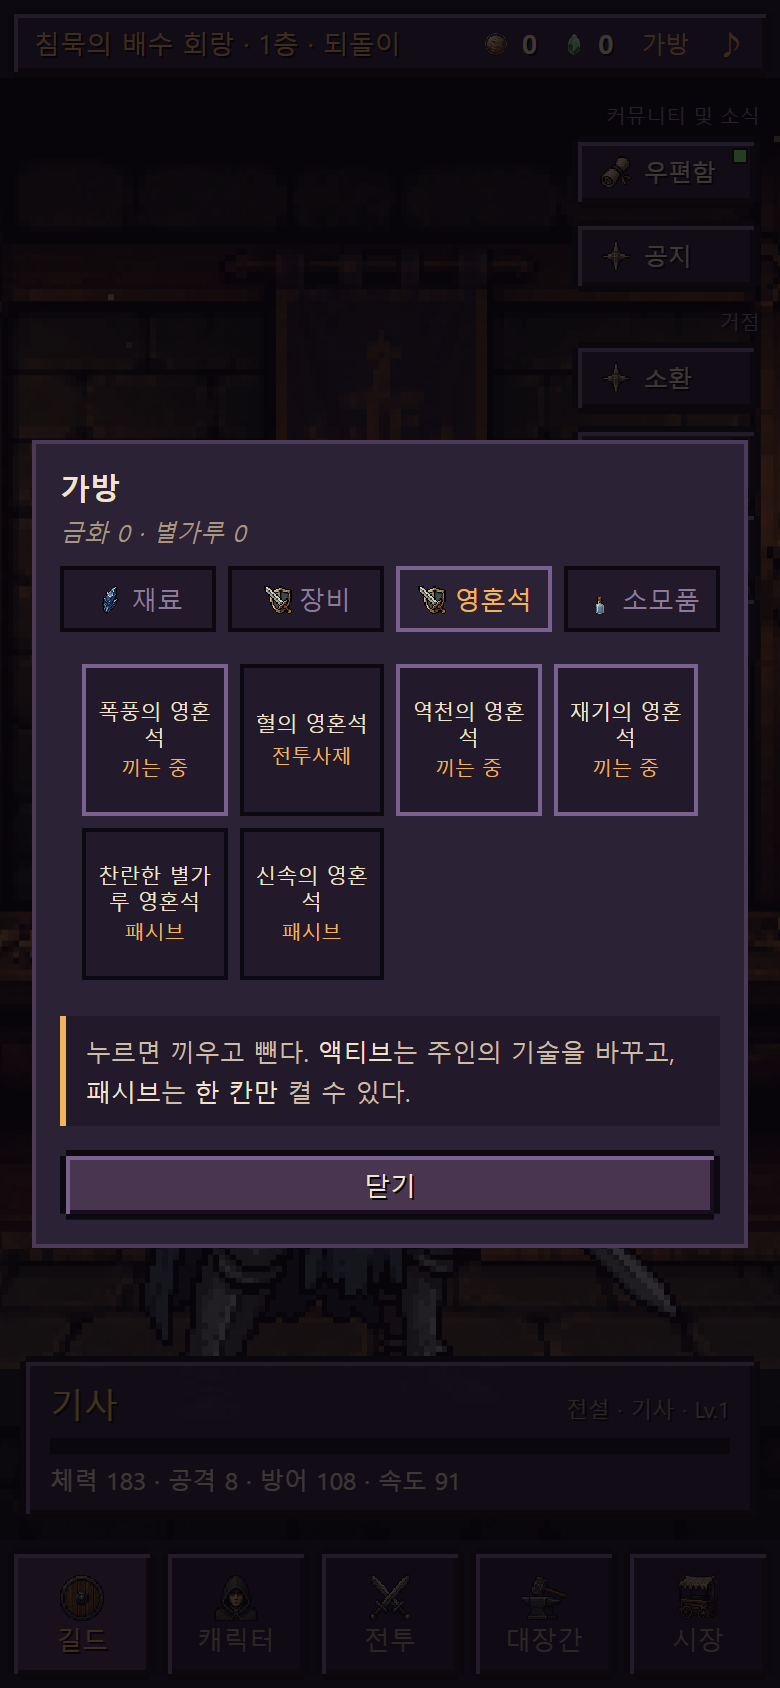
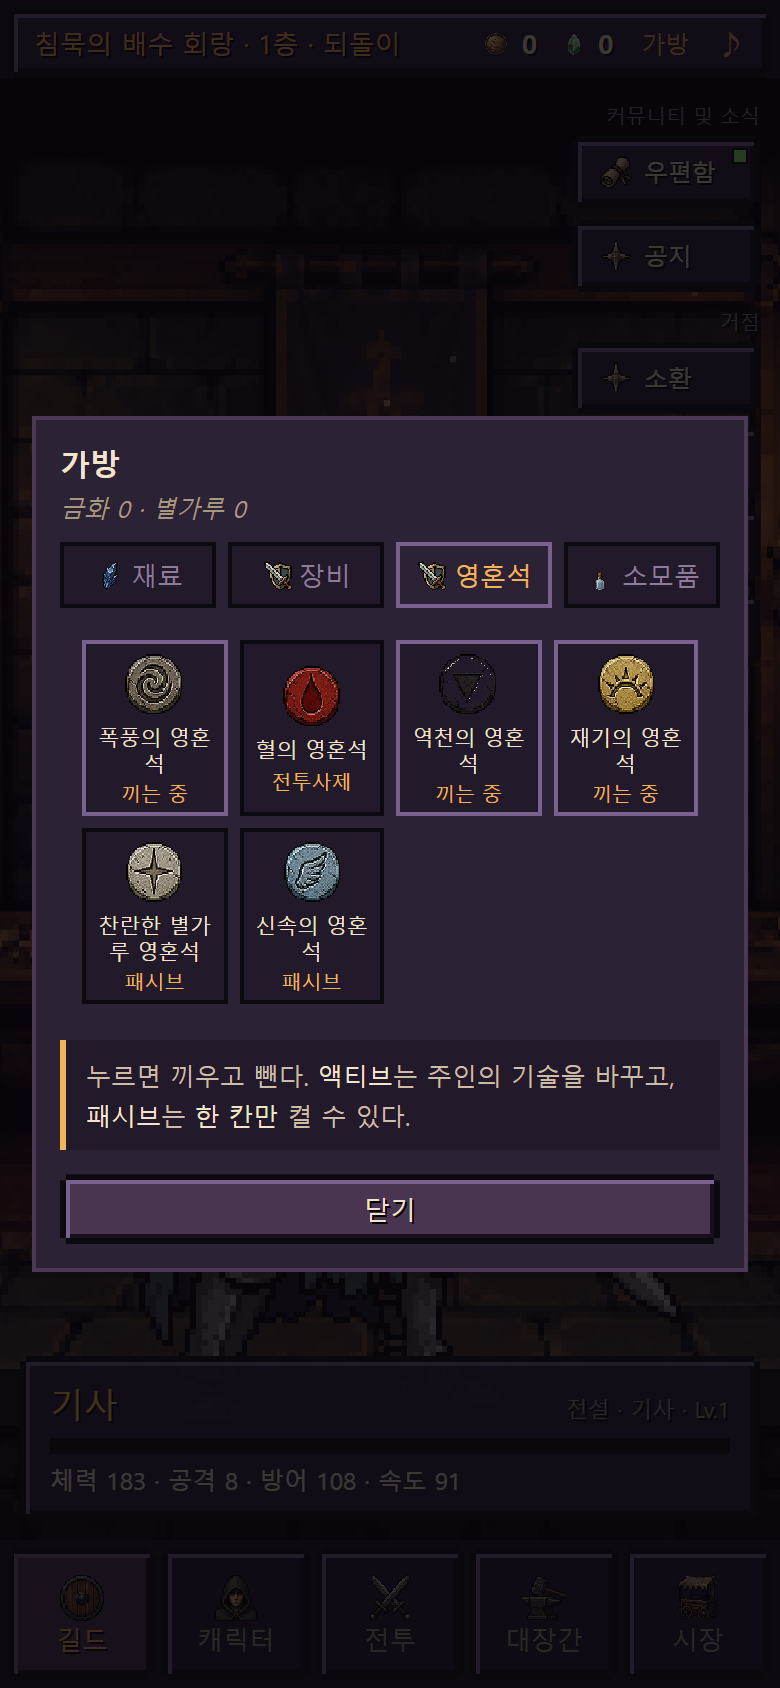
잿빛: 그림 없이 돌던 칸 서른 개를 채움 — 그리고 그걸 세는 자
사장님 "그림 넣어 모든거". 눈으로 훑으면 반드시 빠뜨리므로 **먼저 자로 셌다**:
  ash_그림_빠짐.mts — 게임이 **실제로 찾는 이름**(도감·구간들·재료이름·레시피·영혼석표)을
  전부 모아 manifest 와 맞대어 본다. 짐작하지 않고 게임의 표에서 읽는다.
  첫 판: **빠진 것 30개** (재료 10 · 장비 14 · 영혼석 6)

- 아이콘 30개를 격자 세 장으로 뽑아 넣었다(재료2 12칸 · 물건2 16칸 · 영혼석 6칸, 전부 나옴)
- 물건아이콘 표에 T4~T10 열넷 추가 — **그림이 없는 게 아니라 표에 없었다**
- 영혼석아이콘 표를 새로 두고 가방 칸에 물림(표가 있어야 자가 셀 수 있다)
- manifest 122 → 152

자가 한 번 거짓 경보를 냈다: 아이콘은 manifest 에 `icon/` 을 달고 들어 있는데
그 접두사를 안 보고 **이미 있는 그림 열넷을 없다고** 했다. 고친 뒤 **빠진 것 0개**.

diff --git a/public/ash/index.html b/public/ash/index.html
@@ -1172,7 +1172,14 @@ function 사기(키){
 
 /** 레시피 키 → 아이콘 이름 (10-10 사장님 시안: 글자 말고 그림) */
 const 물건아이콘 = { 철검:"i-철검", 대검:"i-대검", 엄니검:"i-엄니검",
-  가죽갑옷:"i-가죽갑옷", 강철갑옷:"i-강철갑옷", 맹수흉갑:"i-맹수흉갑", 회복약:"i-약" };
+  가죽갑옷:"i-가죽갑옷", 강철갑옷:"i-강철갑옷", 맹수흉갑:"i-맹수흉갑", 회복약:"i-약",
+  /* 10-11: T4~T10 열넷이 **그림 없이** 돌고 있었다(ash_그림_빠짐.mts 가 세어 줬다) */
+  거인검:"i-거인검", 거인갑옷:"i-거인갑옷", 성패검:"i-성패검", 성소갑옷:"i-성소갑옷",
+  독아검:"i-독아검", 늪갑옷:"i-늪갑옷", 골렘검:"i-골렘검", 골렘갑옷:"i-골렘갑옷",
+  핵검:"i-핵검", 핵갑옷:"i-핵갑옷", 여왕검:"i-여왕검", 여왕갑옷:"i-여왕갑옷",
+  심연검:"i-심연검", 심연갑옷:"i-심연갑옷" };
+/** 영혼석 아이콘 — 돌 여섯. 표를 따로 둬야 자가 "빠진 그림"을 셀 수 있다 */
+const 영혼석아이콘 = { 폭풍:"o-폭풍", 혈:"o-혈", 역천:"o-역천", 재기:"o-재기", 별빛:"o-별빛", 신속:"o-신속" };
 const 아이콘 = (이름) => `<img src="art/icon/${이름}.png" alt="">`;
 
 const 레시피 = {
@@ -2231,6 +2238,7 @@ function 가방창(){
             const d = 영혼석표[k];
             const 낌 = d.종류 === "액티브" ? (S.영혼석?.낀액티브 ?? []).includes(k) : 낀패시브() === k;
             return `<div class="칸짜리${낌 ? " 낌" : ""}" data-영혼석="${k}">
+              ${영혼석아이콘[k] ? 아이콘(영혼석아이콘[k]) : ""}
               <div class="이름">${d.이름}</div>
               <div class="수">${낌 ? "끼는 중" : d.종류 === "액티브" ? d.주인 : "패시브"}</div></div>`; }).join("")}</div>
           <div class="풀이 on">누르면 끼우고 뺀다. <b>액티브</b>는 주인의 기술을 바꾸고, <b>패시브</b>는 <b>한 칸만</b> 켤 수 있다.</div>`
@@ -2641,7 +2649,7 @@ Object.assign(window, { S, 맵그리기, 출발창, 화면, 한턴, 적만들기
      (10-10 에 여기에 한 줄 더 적었다가 "Cannot redefine property" 로 스크립트 꼬리가 통째로 죽었다.) */
   적공격, 치명확률, 산아군,
   // 10-11 영혼석 — 자가 손으로 심지 않고 게임의 식을 그대로 부르게
-  영혼석표, 영혼석들, 영혼석가짐, 낀패시브, 기술키, 아군맞기, 판끝 });
+  영혼석표, 영혼석들, 영혼석가짐, 낀패시브, 기술키, 아군맞기, 판끝, 영혼석아이콘 });
 Object.defineProperty(window, "행동순서", { get: () => 행동순서 });
 Object.defineProperty(window, "적들", { get: () => 적들 });
 
